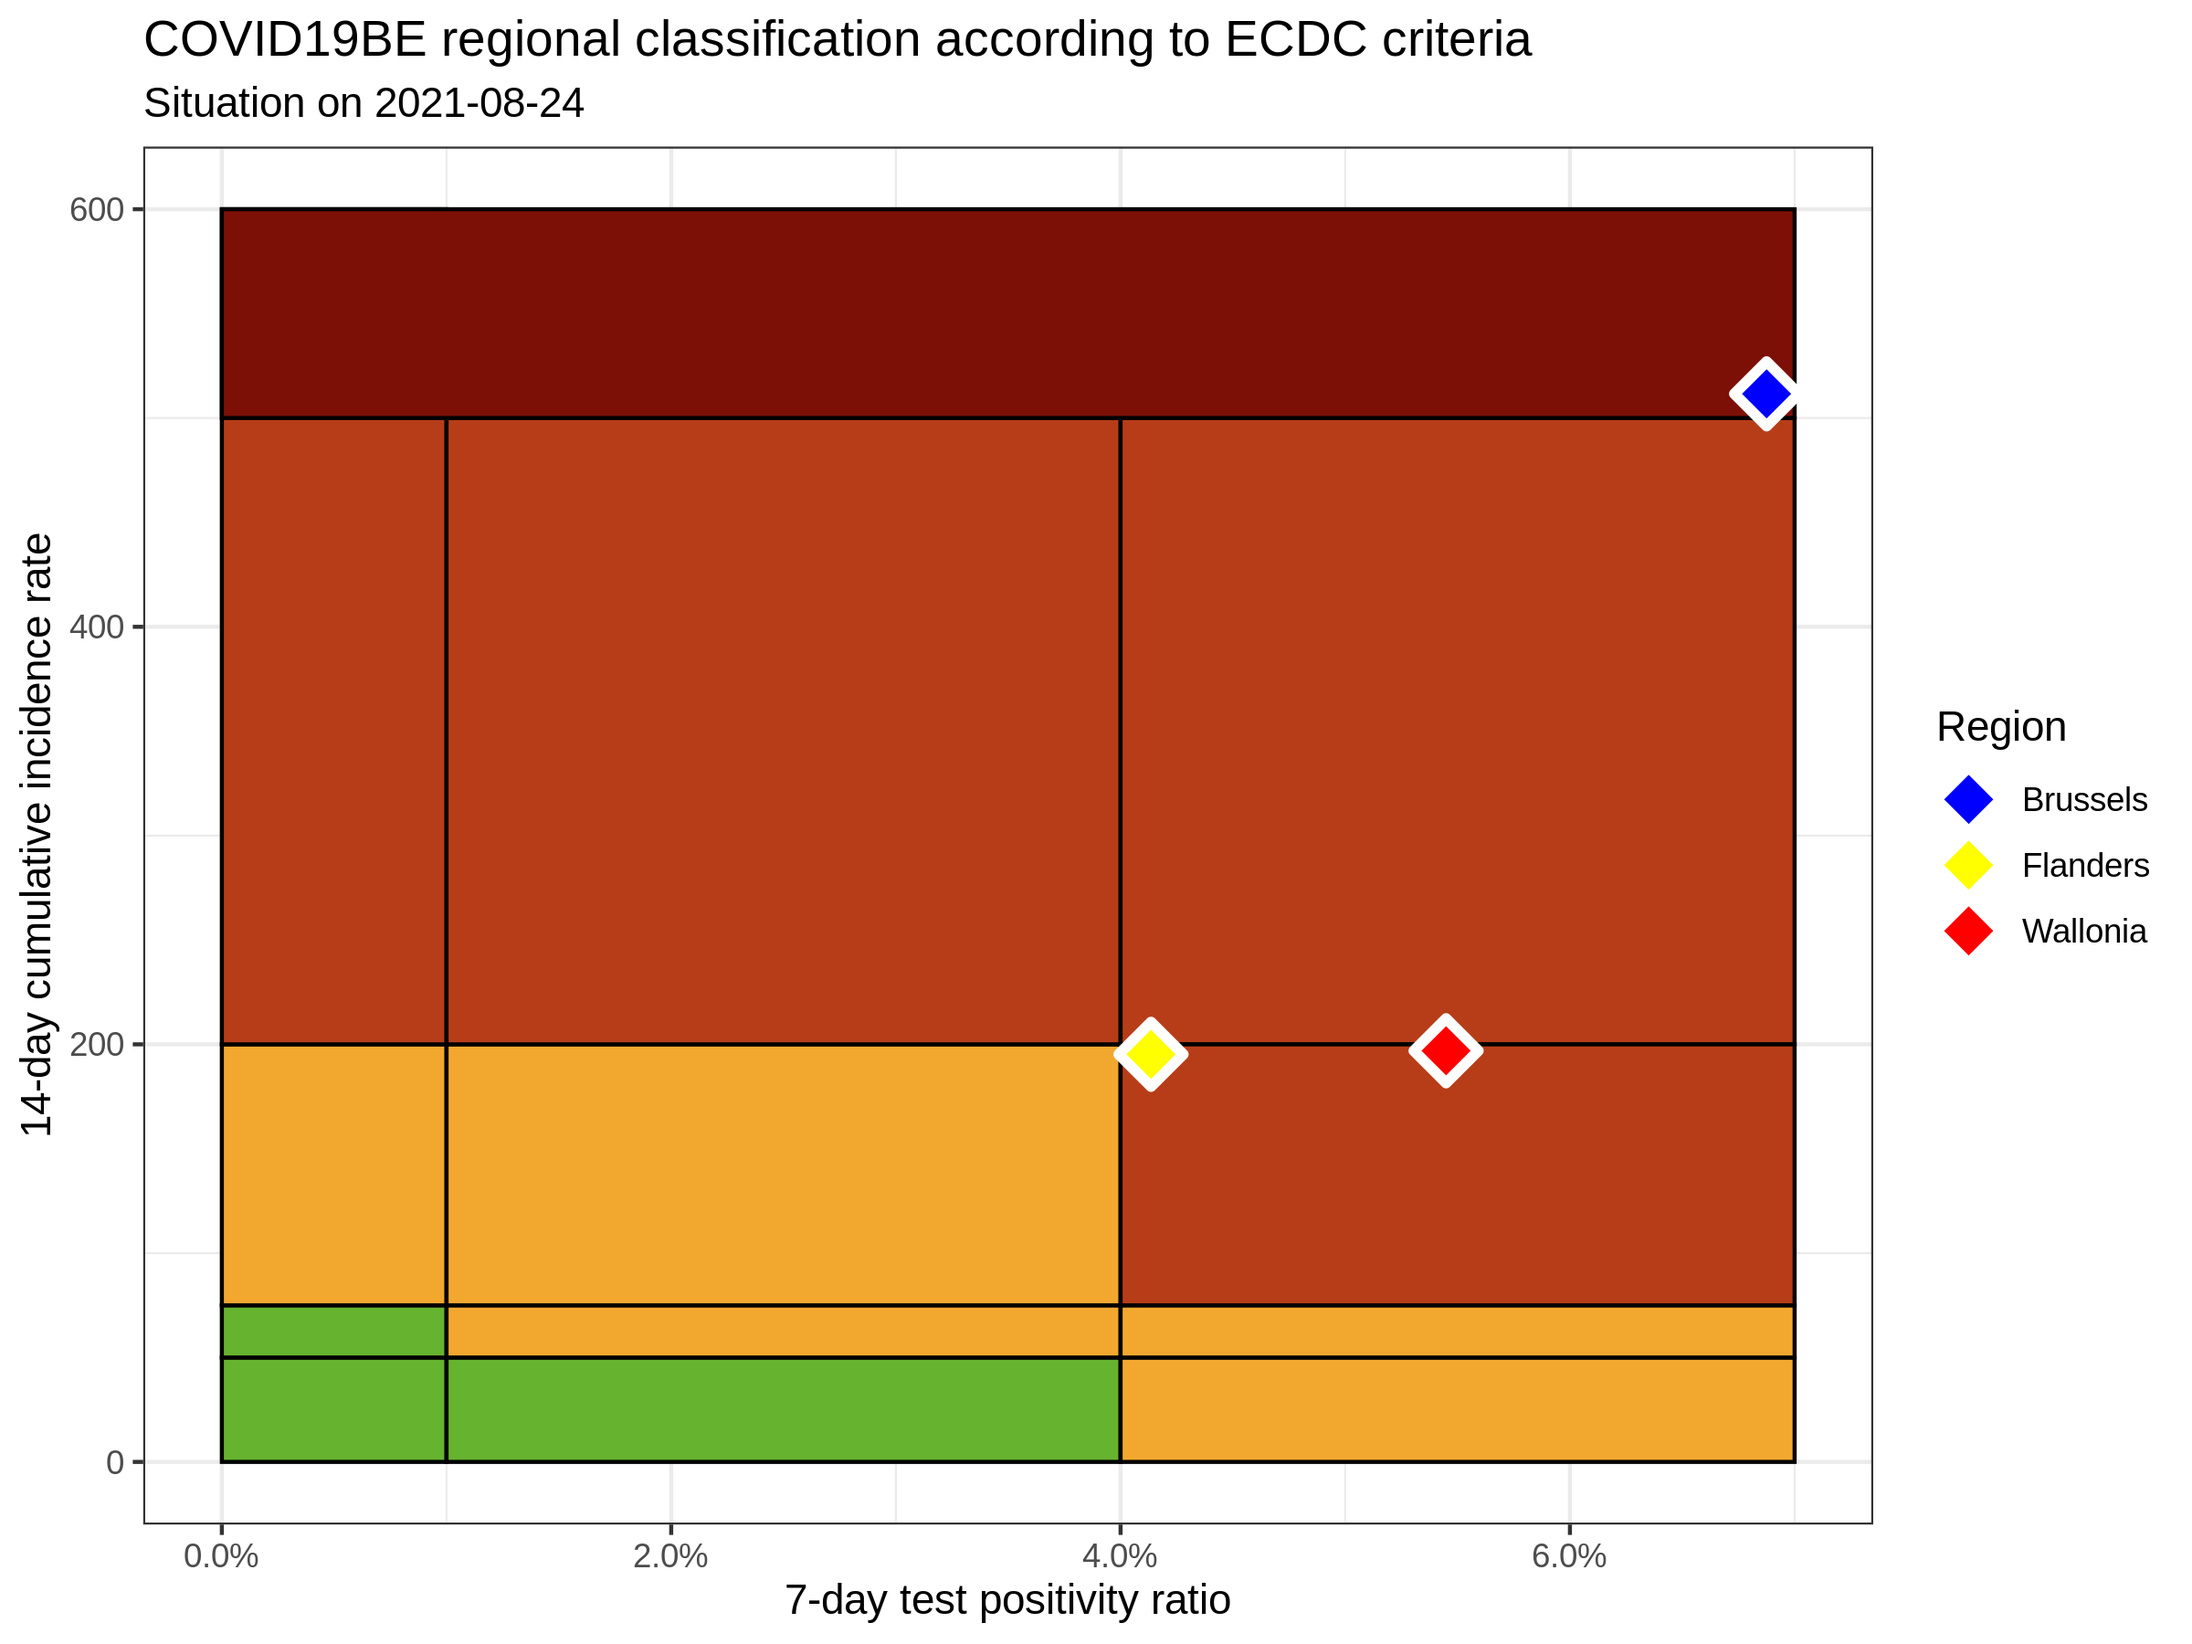
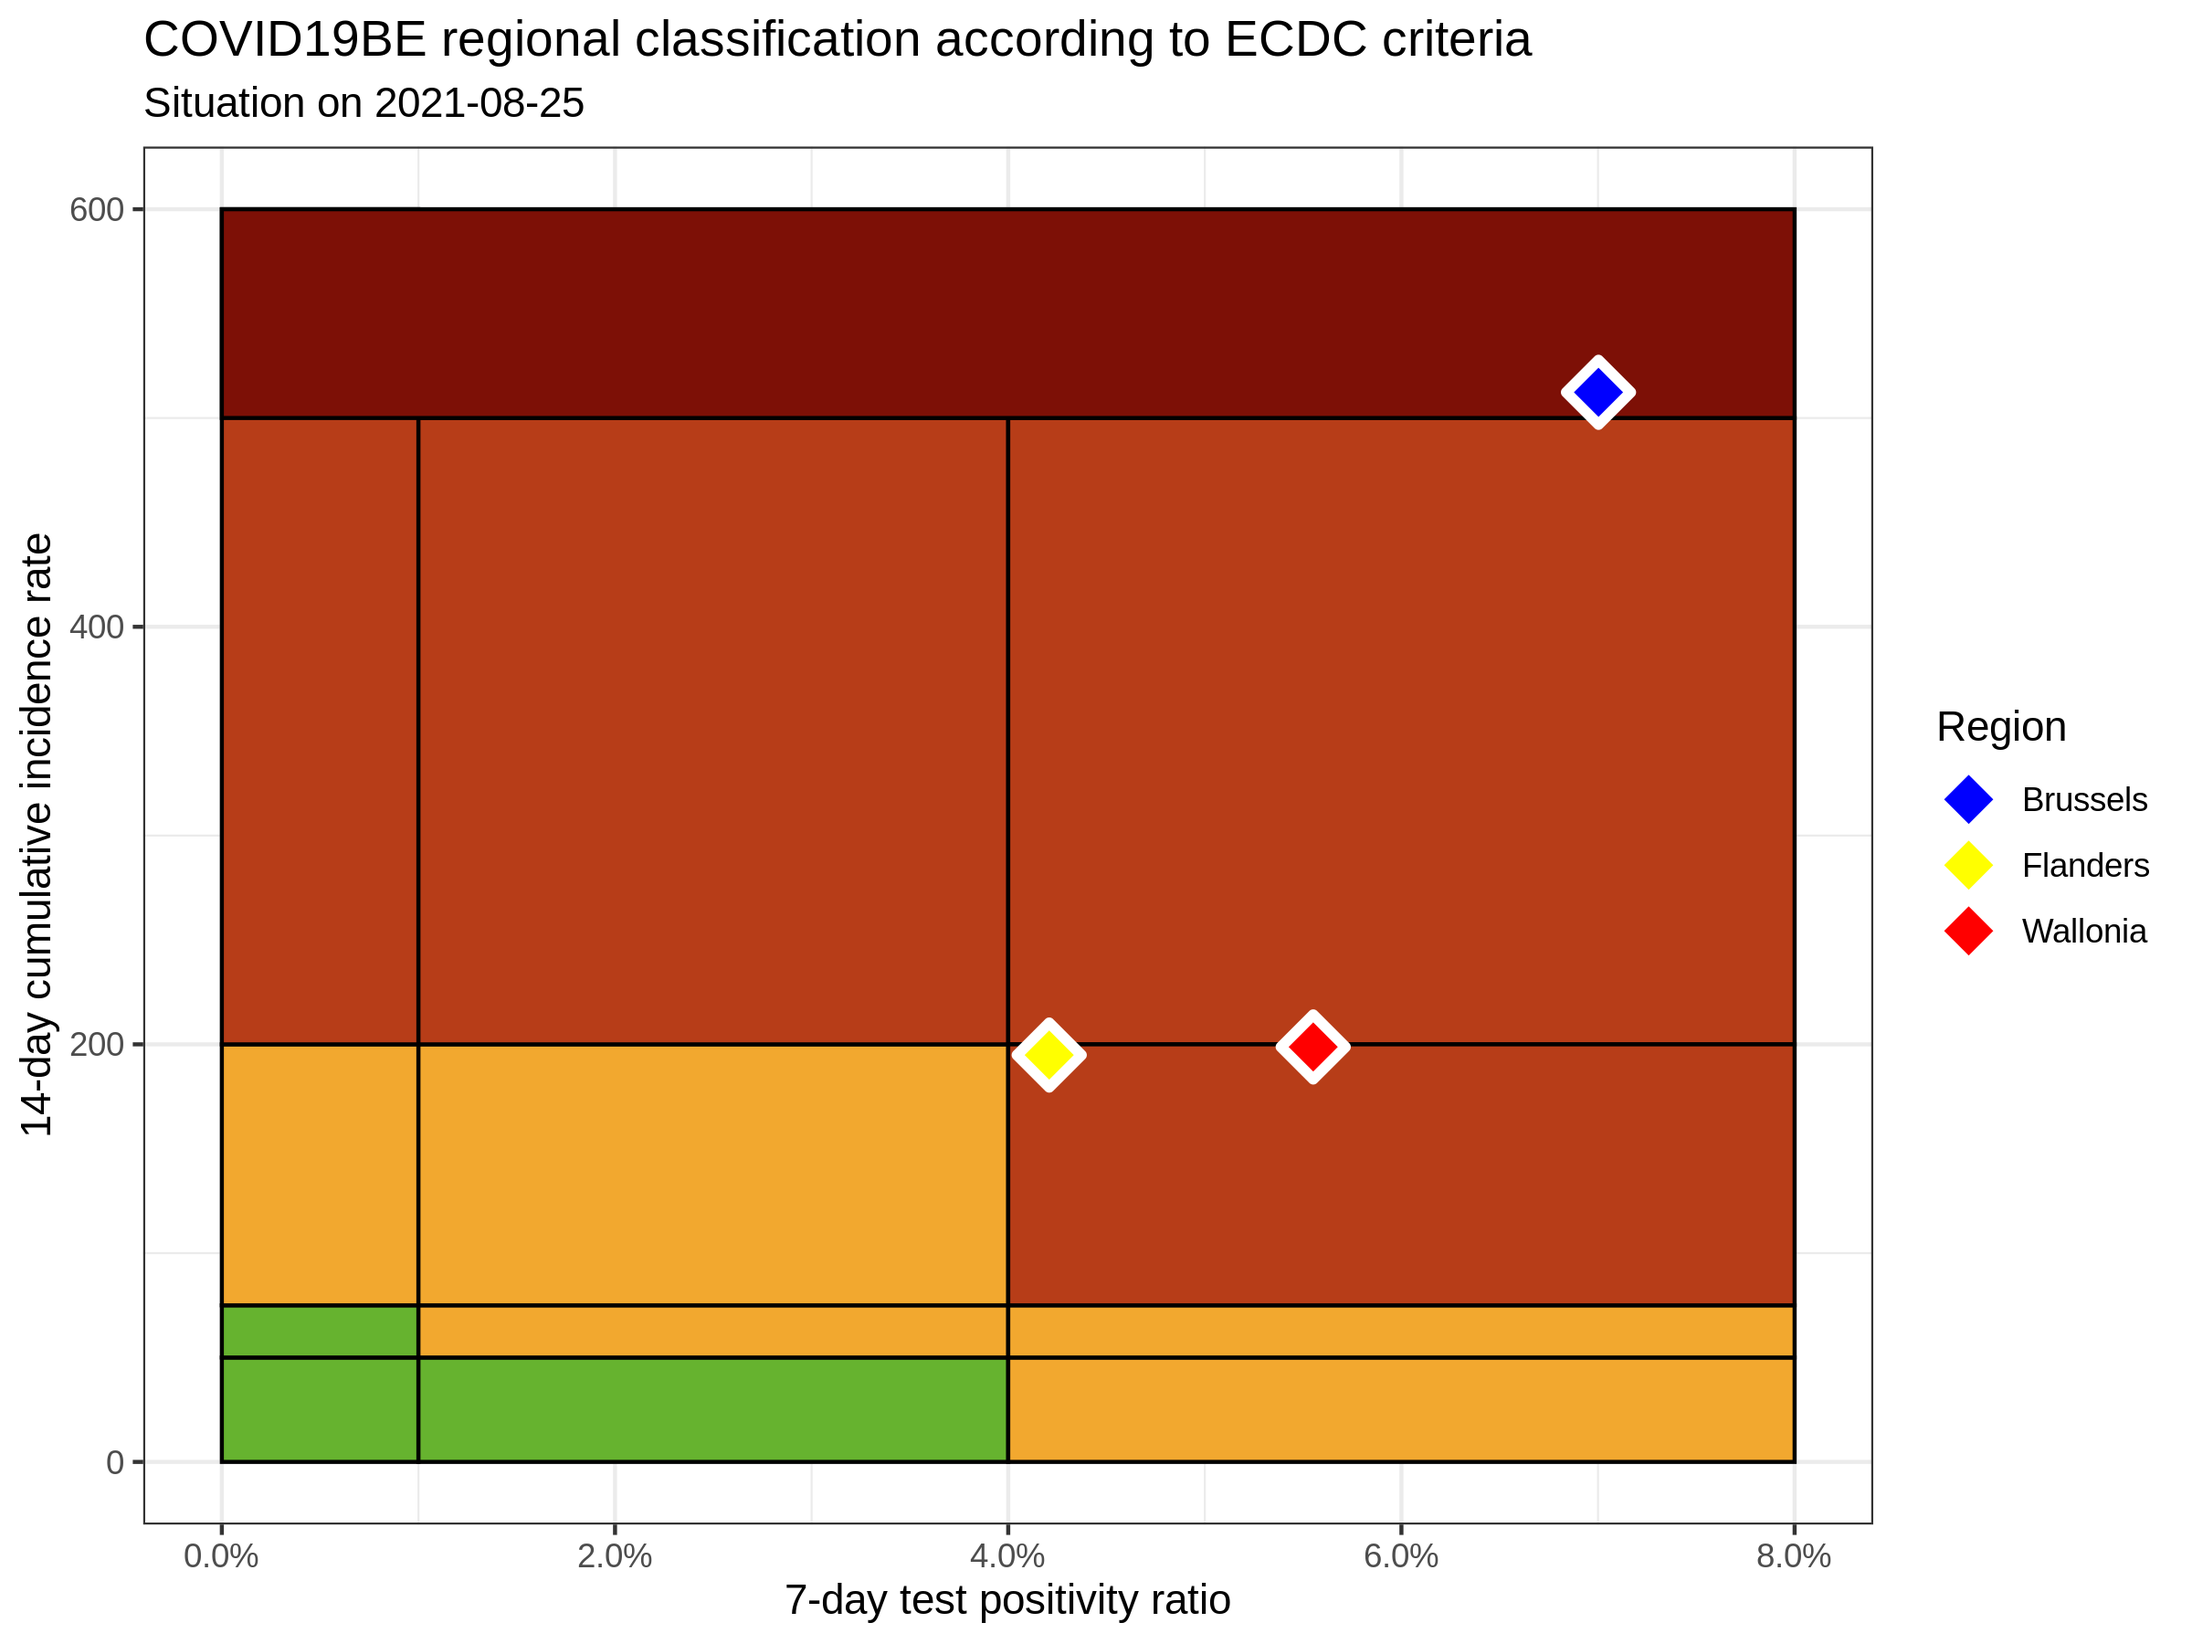
update situation

diff --git a/ecdc-trend/README.md b/ecdc-trend/README.md
@@ -11,9 +11,9 @@
 
 |          | INC14 | INC7 |   TST7 | TST\_POS7 | REGION   |     POP | INC14\_RT |       PR7 |        GR |
 | :------- | ----: | ---: | -----: | --------: | :------- | ------: | --------: | --------: | --------: |
-| Brussels |  6241 | 3202 |  48565 |      3339 | Brussels | 1219970 |  511.5700 | 0.0687532 | 0.0536361 |
-| Flanders | 12988 | 6507 | 174828 |      7230 | Flanders | 6653062 |  195.2184 | 0.0413549 | 0.0040117 |
-| Wallonia |  7184 | 3596 |  72145 |      3931 | Wallonia | 3648206 |  196.9187 | 0.0544875 | 0.0022297 |
+| Brussels |  6250 | 3219 |  50097 |      3508 | Brussels | 1219970 |  512.3077 | 0.0700242 | 0.0620257 |
+| Flanders | 12965 | 6610 | 172674 |      7267 | Flanders | 6653062 |  194.8727 | 0.0420851 | 0.0401259 |
+| Wallonia |  7251 | 3662 |  72721 |      4037 | Wallonia | 3648206 |  198.7552 | 0.0555135 | 0.0203399 |
 
 ### Read more
 
